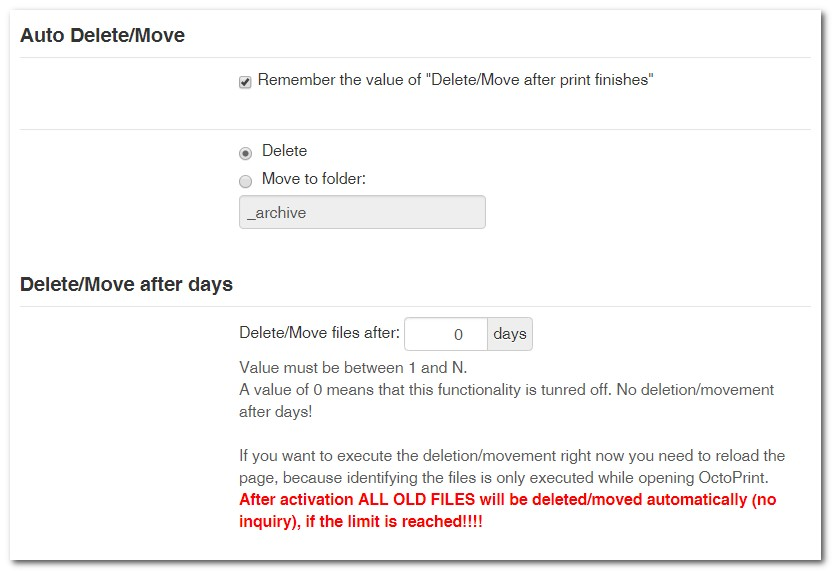
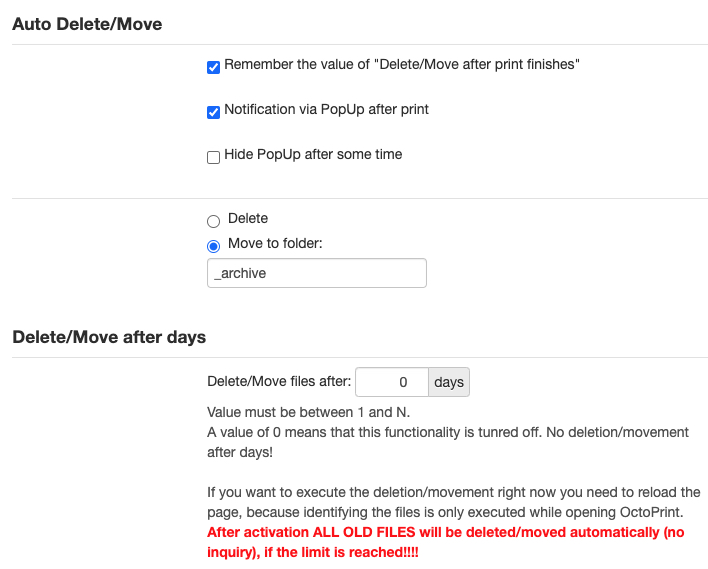
New Version 1.8.0 - #15 hide popup

diff --git a/octoprint_DeleteAfterPrint/static/js/DeleteAfterPrint.js b/octoprint_DeleteAfterPrint/static/js/DeleteAfterPrint.js
@@ -13,6 +13,7 @@ $(function() {
                                 // assign new settings-values // TODO find a more generic way
                                 self.settingsViewModel.settings.plugins.DeleteAfterPrint.daysLimit(data.daysLimit);
                                 self.settingsViewModel.settings.plugins.DeleteAfterPrint.nofificationAfterPrintCheckbox(data.nofificationAfterPrintCheckbox);
+                                self.settingsViewModel.settings.plugins.DeleteAfterPrint.nofificationHideAfterTimeCheckbox(data.nofificationHideAfterTimeCheckbox);
                                 self.settingsViewModel.settings.plugins.DeleteAfterPrint.rememberCheckBox(data.rememberCheckBox);
                                 self.settingsViewModel.settings.plugins.DeleteAfterPrint.deleteMoveMethode(data.deleteMoveMethode);
                                 self.settingsViewModel.settings.plugins.DeleteAfterPrint.moveFolder(data.moveFolder);
@@ -90,7 +91,7 @@ $(function() {
 						title: data.message_title,
 						text: data.message_text,
 						type: data.message_type,  // 'notice', 'info', 'success', or 'error'.
-						hide: false
+						hide: data.hide_type
 						});
 /*
 					new PNotify({

diff --git a/octoprint_DeleteAfterPrint/__init__.py b/octoprint_DeleteAfterPrint/__init__.py
@@ -11,6 +11,7 @@ from octoprint.filemanager.destinations import FileDestinations
 from octoprint.events import eventManager, Events
 
 SETTINGS_KEY_NOTIFICATION_AFTER_PRINT = "nofificationAfterPrintCheckbox"
+SETTINGS_KEY_NOTIFICATION_HIDE_AFTER_TIME = "nofificationHideAfterTimeCheckbox"
 
 SETTINGS_KEY_DELETE_AFTER_PRINT_LASTVALUE = "deleteAfterPrintLastValue"
 SETTINGS_KEY_DELETE_IN_SUBFOLDERS_LASTVALUE= "deleteInSubFoldersLastValue"
@@ -202,8 +203,13 @@ class DeleteAfterPrintPlugin(
 
     #type: 'notice', 'info', 'success', or 'error'
     def _sendPopupMessageToClient(self, type, title, popUpMessage):
+
+        # should the message disappear after some time
         self._plugin_manager.send_plugin_message(self._identifier,
-                                                 dict(message_type=type,
+                                                 dict(
+                                                     hide_type=self._settings.get(
+                                                         [SETTINGS_KEY_NOTIFICATION_AFTER_PRINT]),
+                                                     message_type=type,
                                                       message_title=title,
                                                       message_text=popUpMessage))
 
@@ -292,6 +298,7 @@ class DeleteAfterPrintPlugin(
             # put your plugin's default settings here
             rememberCheckBox=True,
             nofificationAfterPrintCheckbox=True,
+            nofificationHideAfterTimeCheckbox=False,
             daysLimit=0,
             deleteAfterPrintLastValue = DEFAULT_DELETEAFTERPRINT_VALUE,
             deleteInSubFoldersLastValue = DEFAULT_INSUBFOLDER_VALUE,

diff --git a/setup.py b/setup.py
@@ -14,7 +14,7 @@ plugin_package = "octoprint_DeleteAfterPrint"
 plugin_name = "OctoPrint-DeleteMoveAfterPrint"
 
 # The plugin's version. Can be overwritten within OctoPrint's internal data via __plugin_version__ in the plugin module
-plugin_version = "1.7.0"
+plugin_version = "1.8.0"
 
 # The plugin's description. Can be overwritten within OctoPrint's internal data via __plugin_description__ in the plugin
 # module
